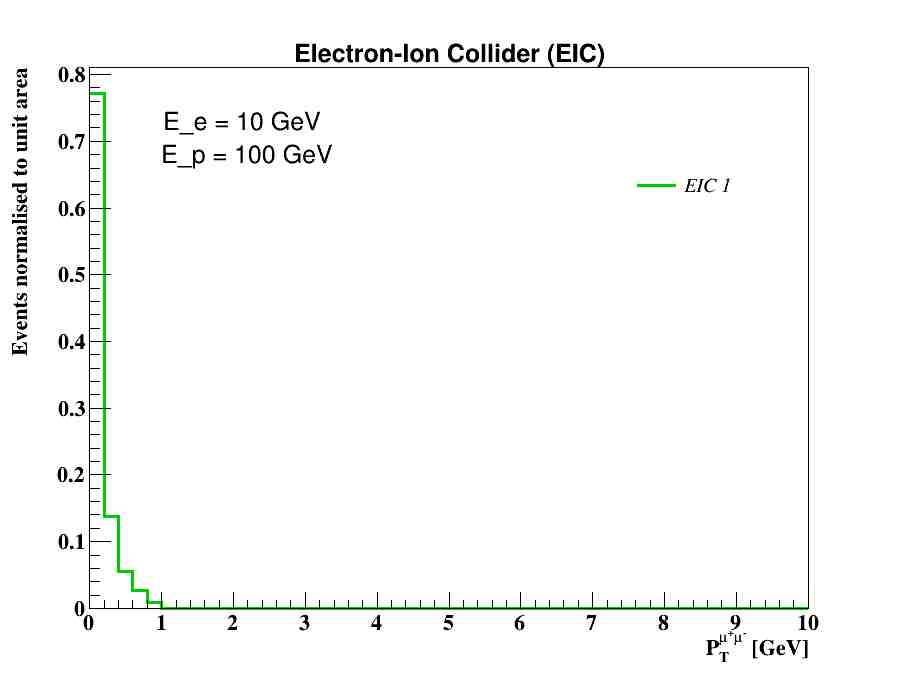
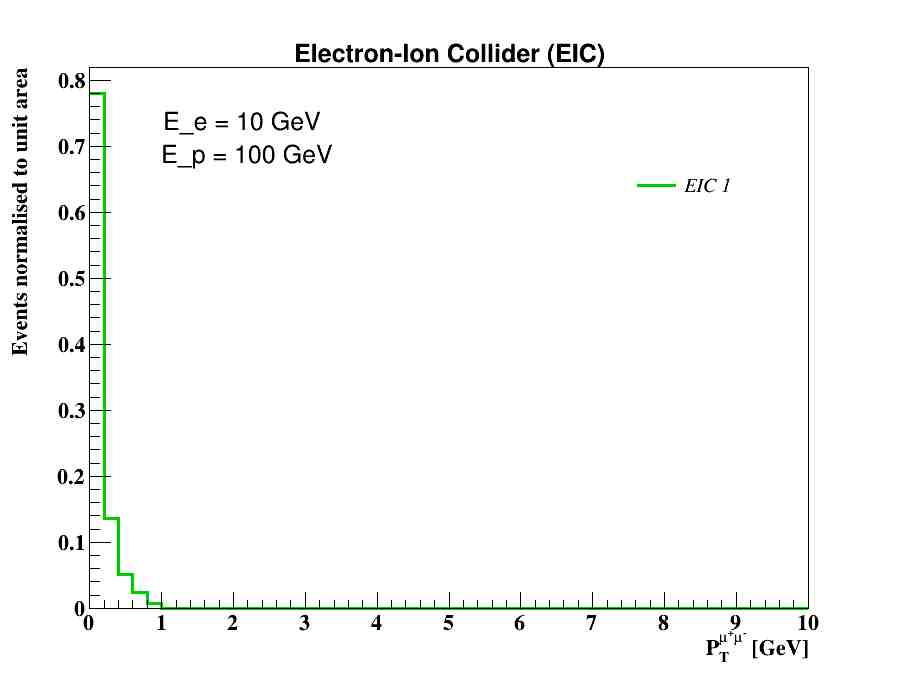
Electronin_E

diff --git a/epic_out_file_v2.C b/epic_out_file_v2.C
@@ -158,7 +158,8 @@ void epic_out_file_v2::Loop()
 
   Electronin.SetPxPyPzE( particles_momentum_m_v1[0], particles_momentum_m_v2[0], particles_momentum_m_v3[0], particles_momentum_m_v4[0] );
   
-        cout << "Electronin Px = "   <<  Electronin.Px()  << endl;    
+//        cout << "Electronin Px = "   <<  Electronin.Px()  << endl;    
+//        cout << "Electronin E = "   <<  Electronin.E()  << endl;    
 
  //       }  
         
@@ -167,11 +168,22 @@ void epic_out_file_v2::Loop()
 
   Electronout.SetPxPyPzE( particles_momentum_m_v1[1], particles_momentum_m_v2[1], particles_momentum_m_v3[1], particles_momentum_m_v4[1] );
   
-        cout << "Electronout Px = "   <<  Electronout.Px()  << endl;    
-
+//        cout << "Electronout Px = "   <<  Electronout.Px()  << endl;    
+          cout << "Electronout E = "   <<  Electronout.Theta()  << endl;    
+          
 //        }  
   
   
+ Float_t Electronin_E  = Electronin.E();
+ Float_t Electronout_E = Electronout.E();
+
+ Float_t Energy_Ratio = Electronout_E*1.0/Electronin_E*1.0;
+
+//        cout << "Energy_Ratio = "   <<  Energy_Ratio  << endl;    
+ 
+if ( Energy_Ratio < 0.5 ||  Energy_Ratio > 0.9 ) { continue; }
+
+    
         
         
 //        if ( kMaxparticles == 3 ) {  // particles_pid[i] == 2212 && particles_status[i] == 0
@@ -199,7 +211,7 @@ void epic_out_file_v2::Loop()
       
     for (Int_t i = 1; i <= kMaxparticles; i++) {      
      
-        if (particles_pid[i] == 13 ) {  // && particles_status[i] == 5 
+        if (particles_pid[i] == -13 ) {  // && particles_status[i] == 5 
 
             
  TVector3 Muonplus;
@@ -221,7 +233,7 @@ void epic_out_file_v2::Loop()
         }
 
 
-        else if (particles_pid[i] == -13 ) {  // && particles_status[i] == 5 
+        else if (particles_pid[i] == 13 ) {  // && particles_status[i] == 5 
 
             
  TVector3 Muonminus;
